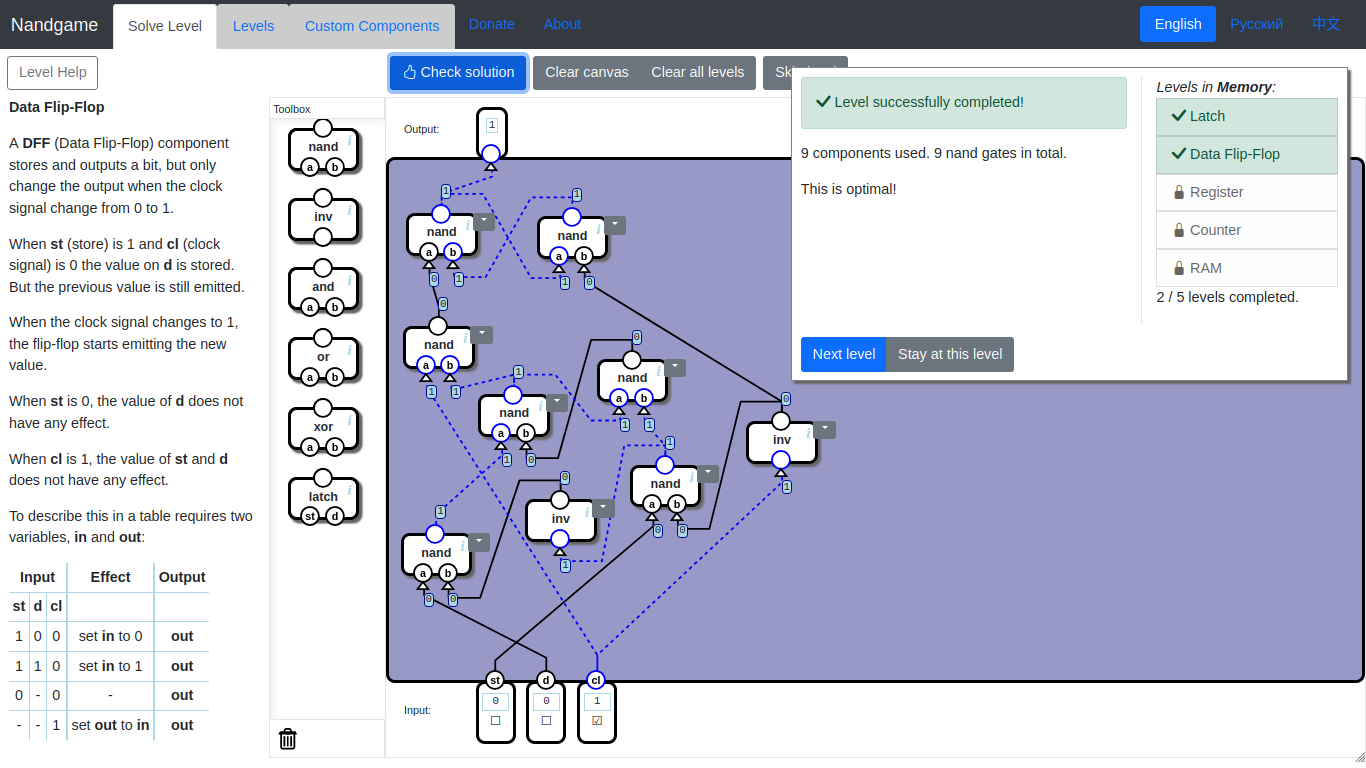
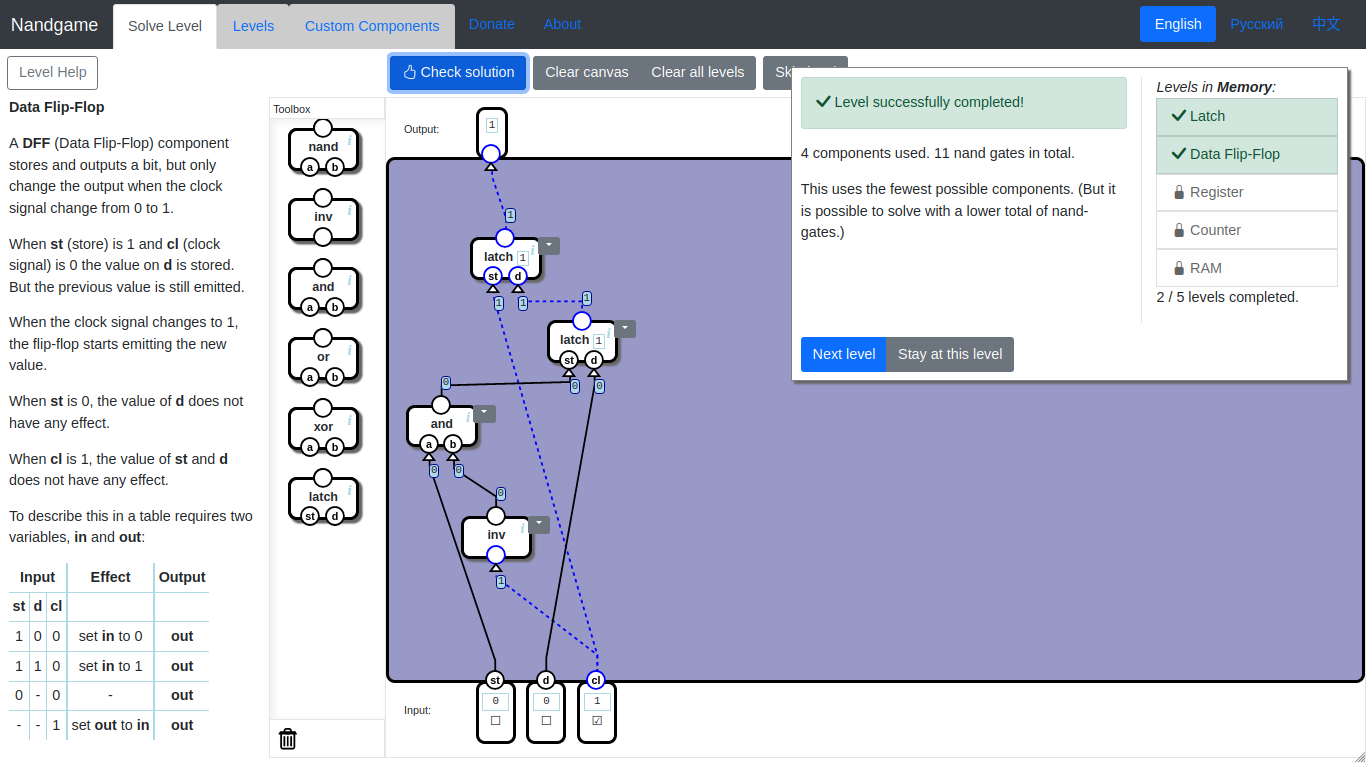
Updated: readme, data flip-flop

Changed region(s): [[0.2767, 0.25, 0.6149, 0.8438], [0.5842, 0.1875, 0.8302, 0.3125]]

diff --git a/README.md b/README.md
@@ -1,18 +1,39 @@
 # Best solutions for [nandgame.com](http://nandgame.com/)
 
 * [Logic Gates](#logic-gates)
-	+ [Nand](#nand), [Invert](#invert), [And](#and), [Or](#or), [Xor](#xor)
+	+ [Nand](#nand) (1 relay)
+	+ [Invert](#invert) (1 nand gate)
+	+ [And](#and) (2 nand gates)
+	+ [Or](#or) (3 nand gates)
+	+ [Xor](#xor) (4 nand gates)
 * [Arithmetics](#arithmetics)
-	+ [Half Adder](#half-adder), [Full Adder](#full-adder), [Multi-bit Adder](#multi-bit-adder)
-	+ [Increment](#increment), [Subtraction](#subtraction), [Equal to Zero](#equal-to-zero), [Less than Zero](#less-than-zero)
+	+ [Half Adder](#half-adder) (5 nand gates)
+	+ [Full Adder](#full-adder) (9 nand gates)
+	+ [Multi-bit Adder](#multi-bit-adder) (18 nand gates)
+	+ [Increment](#increment) (145 nand gates)
+	+ [Subtraction](#subtraction) (161 nand gates)
+	+ [Equal to Zero](#equal-to-zero) (10 nand gates)
+	+ [Less than Zero](#less-than-zero)
 * [Plumbing](#plumbing)
-	+ [Selector](#selector), [Switch](#switch)
+	+ [Selector](#selector) (4 nand gates)
+	+ [Switch](#switch) (5 nand gates)
 * [Memory](#memory)
-	+ [Latch](#latch), [Data Flip-Flop](#data-flip-flop), [Register](#register), [Counter](#counter), [RAM](#ram)
+	+ [Latch](#latch) (4 nand gates)
+	+ [Data Flip-Flop](#data-flip-flop) (9 nand gates)
+	+ [Register](#register) (15 nand gates)
+	+ [Counter](#counter) (607 nand gates)
+	+ [RAM](#ram) (309 nand gates)
 * [Arithmetic Logic Unit](#arithmetic-logic-unit)
-	+ [Unary ALU](#unary-alu), [ALU](#alu), [Opcodes](#opcodes), [Condition](#condition)
+	+ [Unary ALU](#unary-alu) (144 nand gates)
+	+ [ALU](#alu) (608 nand gates)
+	+ [Opcodes](#opcodes)
+	+ [Condition](#condition) (56 nand gates)
 * [Processor](#processor)
-	+ [Combined Memory](#combined-memory), [Instruction Decoder](#instruction-decoder), [Control Unit](#control-unit), [Computer](#computer), [Input and Output](#input-and-output)
+	+ [Combined Memory](#combined-memory) (240 + 79104 nand gates)
+	+ [Instruction Decoder](#instruction-decoder) (130 nand gates)
+	+ [Control Unit](#control-unit) (1162 + 79104 nand gates)
+	+ [Computer](#computer) (1769 + 79104  nand gates)
+	+ [Input and Output](#input-and-output) (66 nand gates)
 * [Programming](#programming)
 	+ [Machine code](#machine-code), [Assembler](#assembler), [Escape Labyrinth](#escape-labyrinth)
 
